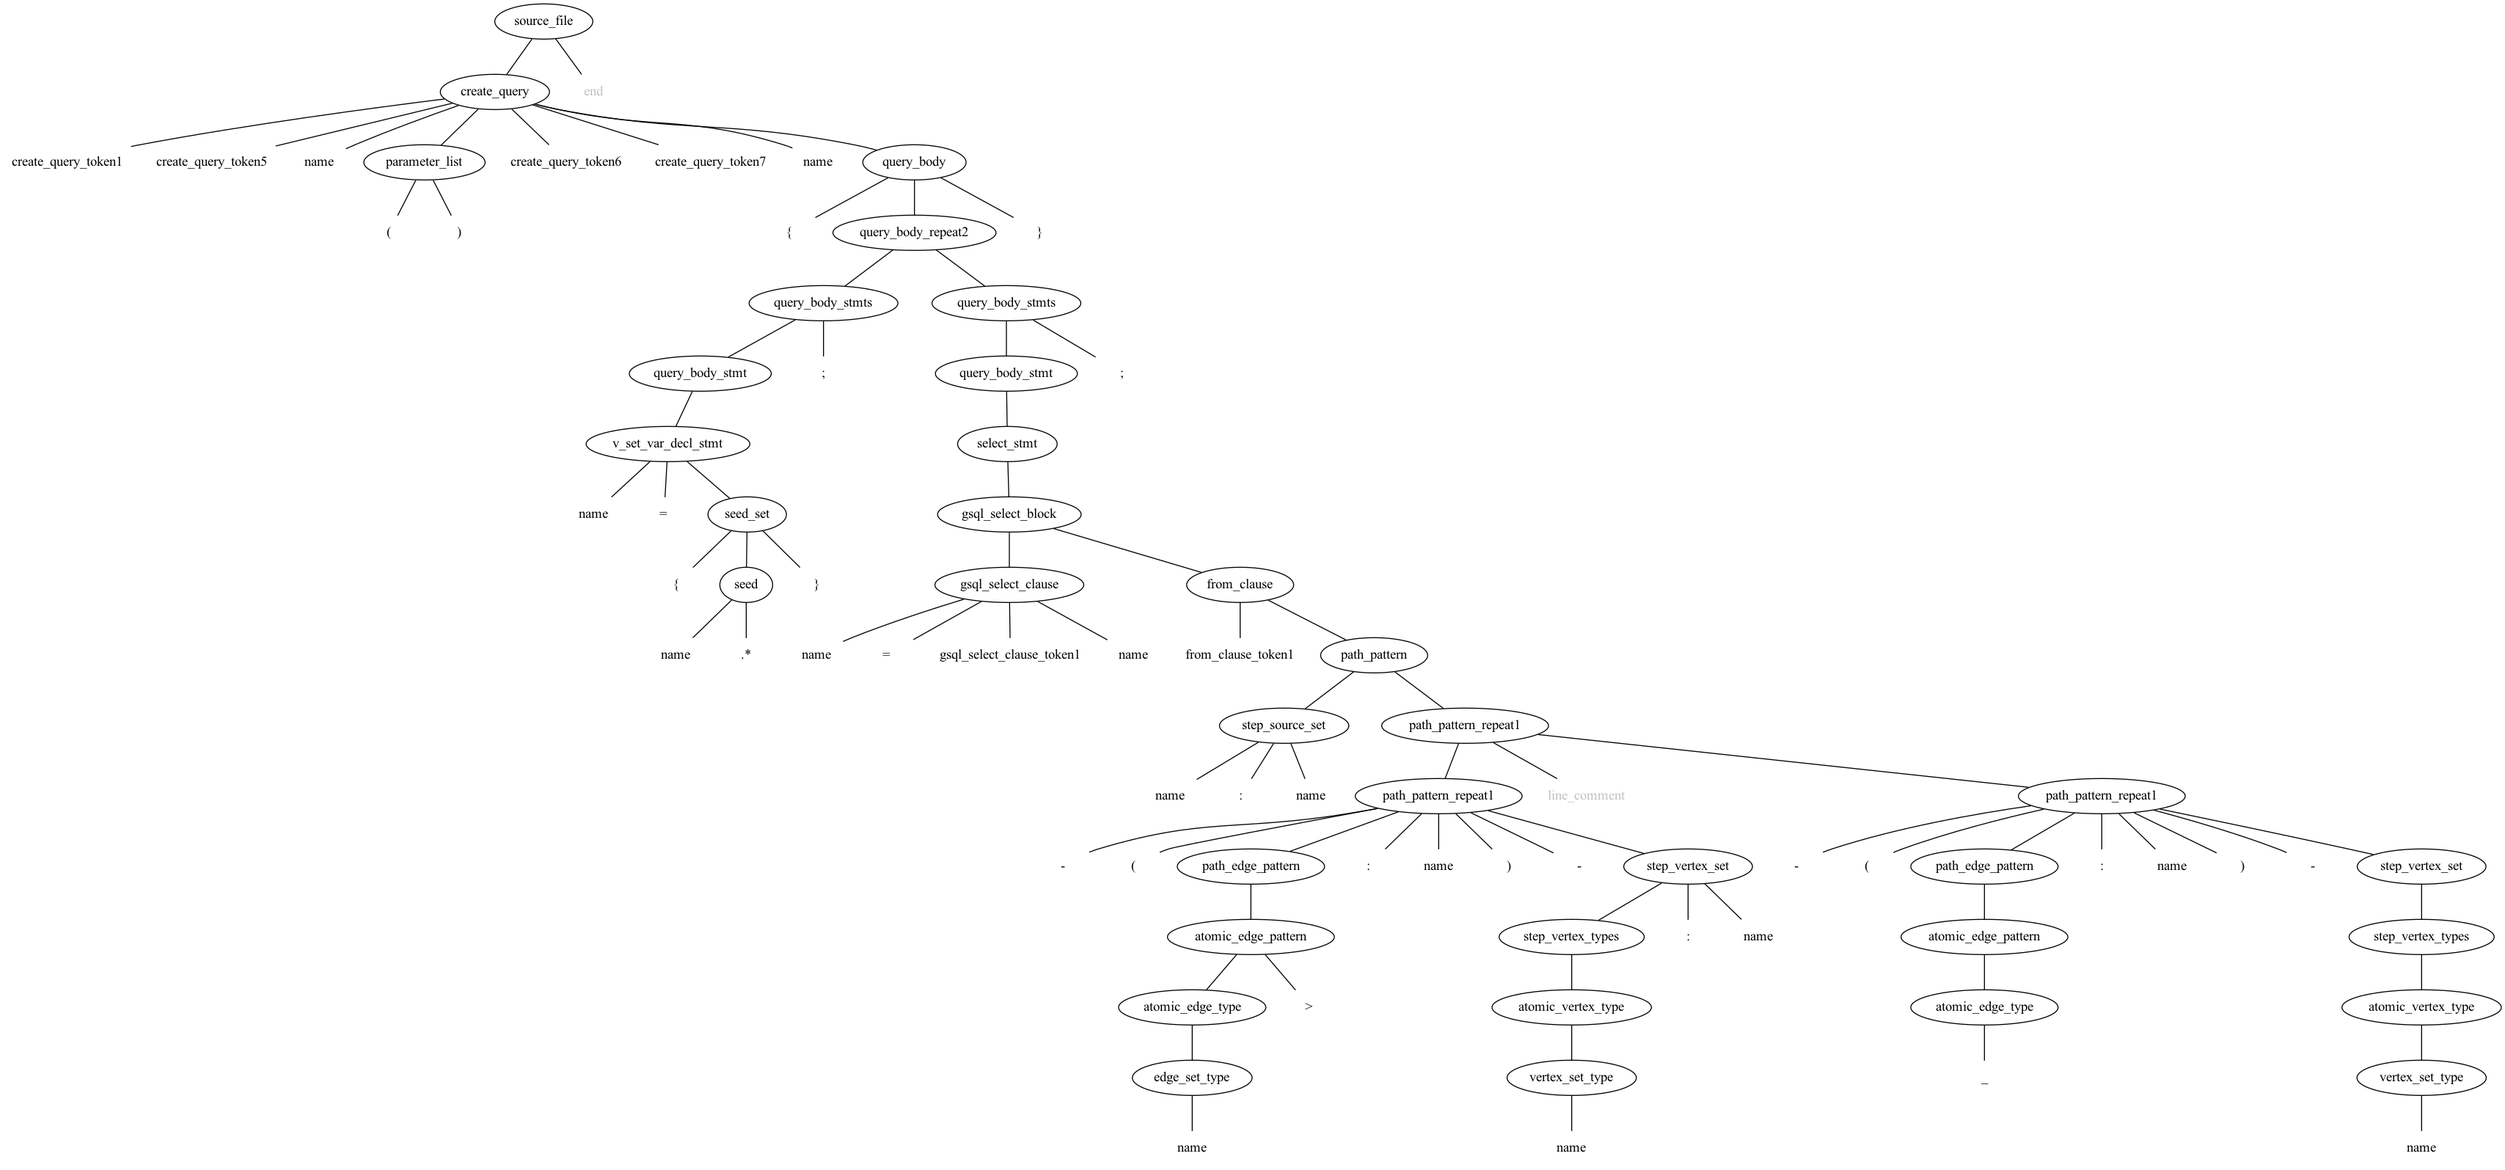
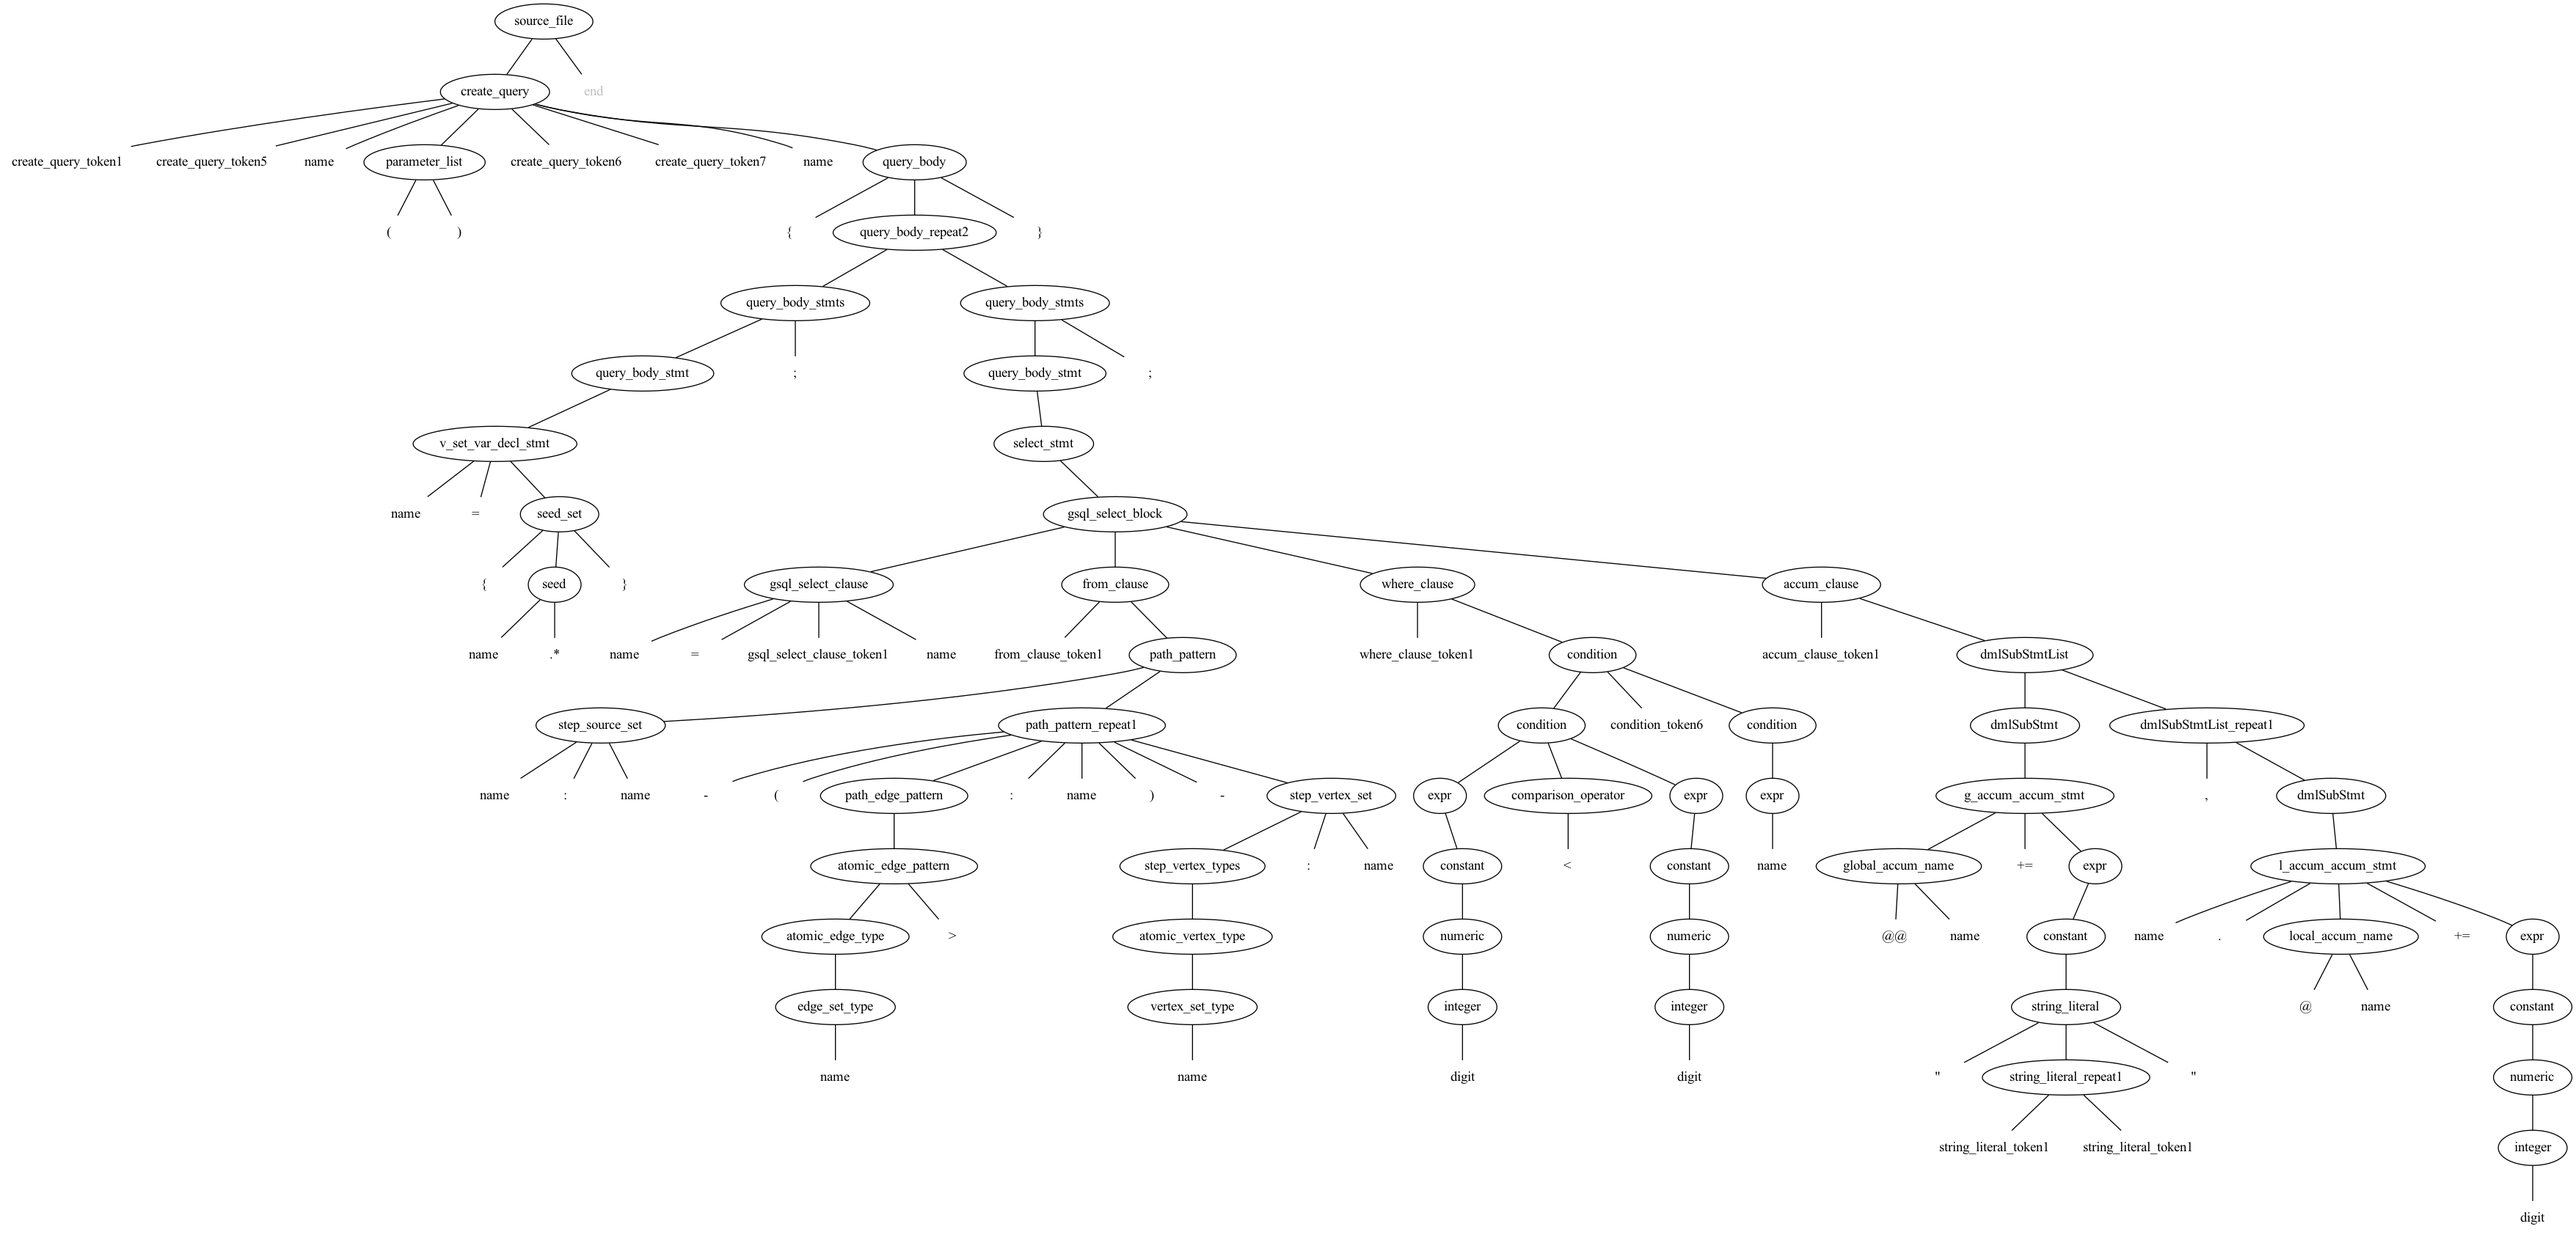
started accum

diff --git a/tree-sitter-gsql/grammar.js b/tree-sitter-gsql/grammar.js
@@ -94,7 +94,6 @@ module.exports = grammar({
 		),
 
 		query_body_stmt: $ => choice(
-			// !bookmark
 			// these need to be repeat 1 because if the pattern is chosen, it must complete at least once
 			repeat1($.assign_stmt),
 			repeat1($.v_set_var_decl_stmt),
@@ -133,7 +132,10 @@ module.exports = grammar({
 				seq("(", $.name, ")")
 			),
 			"=",
-			choice($.seed_set)//, $.simple_set, $.select_stmt)
+			choice($.seed_set,
+				//, $.simple_set, 
+				$.select_stmt
+			)
 		),
 
 		seed_set: $ => seq(
@@ -170,7 +172,7 @@ module.exports = grammar({
 
 		g_accum_accum_stmt: $ => seq(
 			$.global_accum_name,
-			"+=",
+			field("plus_equal","+="),
 			$.expr
 		),
 
@@ -201,12 +203,13 @@ module.exports = grammar({
 			// $.sqlSelectBlock 
 		),
 
+		//!book root
 		gsql_select_block: $ => seq(
 			$.gsql_select_clause,
 			$.from_clause,
 			// optional($.sample_clause),
-			// optional($.where_clause),
-			// optional($.accum_clause),
+			optional($.where_clause),
+			optional($.accum_clause),
 			// repeat($.post_accum_clause),
 			// optional($.having_clause),
 			// optional($.order_clause),
@@ -226,6 +229,59 @@ module.exports = grammar({
 				// $.step_v2,
 				seq($.path_pattern, repeat(seq(",", $.path_pattern))),
 			)
+		),
+
+		where_clause: $ => seq(
+			caseInsensitive("where"),
+			$.condition
+		),
+
+		//book! here
+		accum_clause: $ => seq(
+			// optinal(perClauseV2),
+			caseInsensitive("accum"),
+			$.dmlSubStmtList
+		),
+		dmlSubStmtList: $ => seq(
+			$.dmlSubStmt,
+			repeat(seq(",", $.dmlSubStmt))
+		),
+
+		dmlSubStmt: $ => choice(
+			$.assign_stmt,
+			$.func_call_stmt,
+			$.g_accum_accum_stmt,
+			$.l_accum_accum_stmt,
+			$.attr_accum_stmt,
+			todo below
+			// $.v_accum_func_fall, 
+			// $.local_var_decl_stmt,
+			// dmlSubCaseStmt,
+			// dmlSubIfStmt,
+			// dmlSubWhileStmt,
+			// dmlSubForEachStmt,
+			// caseInsensitive("BREAK"),
+			// caseInsensitive("CONTINUE"),
+			// insertStmt,
+			// dmlSubDeleteStmt,
+			// printlnStmt,
+			// logStmt
+		),
+
+		l_accum_accum_stmt: $ => seq(
+			$.name,
+			".",
+			$.local_accum_name,
+			field("plus_equal","+="),
+			$.expr
+		),
+
+		attr_accum_stmt: $ => seq(
+			$.name,
+			".",
+			$.name,
+			field("plus_equal","+="),
+			$.expr
 		),
 
 		path_pattern: $ => prec(1, seq(
@@ -426,13 +482,42 @@ module.exports = grammar({
 			// $.setBagExpr 
 			seq($.name, "(", $.arg_list, ")"),
 		)),
+
+		condition: $ => prec.left(1, choice(
+			$.expr,
+			seq($.expr, $.comparison_operator, $.expr),
+			seq($.expr, optional(caseInsensitive("NOT")), caseInsensitive("IN"), $.set_bag_expr),
+			seq($.expr, caseInsensitive("IS"), optional(caseInsensitive("NOT")), caseInsensitive("NULL")),
+			seq($.expr, caseInsensitive("BETWEEN"), $.expr, caseInsensitive("AND"), $.expr),
+			seq("(", $.condition, ")"),
+			seq(caseInsensitive("NOT"), $.condition),
+			seq($.condition, choice(caseInsensitive("AND"), caseInsensitive("OR")), $.condition),
+			choice(caseInsensitive("TRUE"), caseInsensitive("FALSE")),
+			seq($.expr, optional(caseInsensitive("NOT")), caseInsensitive("LIKE"), $.expr)
+		)),
+
+		set_bag_expr: $ => prec.left(0, choice(
+			$.name,
+			$.global_accum_name,
+			seq($.name, ".", $.name),
+			seq($.name, ".", $.local_accum_name),
+			seq($.name, ".", $.local_accum_name, repeat(seq(".", $.name, "(", optional($.arg_list), ")"))),
+			seq($.name, ".", $.name, "(", optional($.arg_list), ")", optional(seq(".", caseInsensitive("FILTER"), "(", $.condition, ")"))),
+			seq($.global_accum_name, repeat(seq(".", $.name, "(", optional($.arg_list), ")"))),
+			seq($.set_bag_expr, choice(caseInsensitive("UNION"), caseInsensitive("INTERSECT"), caseInsensitive("MINUS")), $.set_bag_expr),
+			seq("(", $.arg_list, ")"),
+			seq("(", $.set_bag_expr, ")")
+		)),
+
 		_type: $ => choice(
 			$.base_type
 		),
+
 		_element_type: $ => choice(
 			$.base_type,
 			$.name
 		),
+
 		base_type: $ => choice(
 			caseInsensitive("bool"),
 			caseInsensitive("int"),
@@ -492,7 +577,14 @@ module.exports = grammar({
 			">>",
 			"&",
 			" | "),
-
+		comparison_operator: $ => choice(
+			"<",
+			"<=",
+			">",
+			">=",
+			"==",
+			"!="
+		),
 		// http://stackoverflow.com/questions/13014947/regex-to-match-a-c-style-multiline-comment/36328890#36328890
 		comment: $ => choice(
 			$.line_comment,
@@ -516,4 +608,4 @@ function caseInsensitive(keyword) {
 			.map((letter) => `[${letter}${letter.toUpperCase()}]`)
 			.join("")
 	);
-}
+}// 
